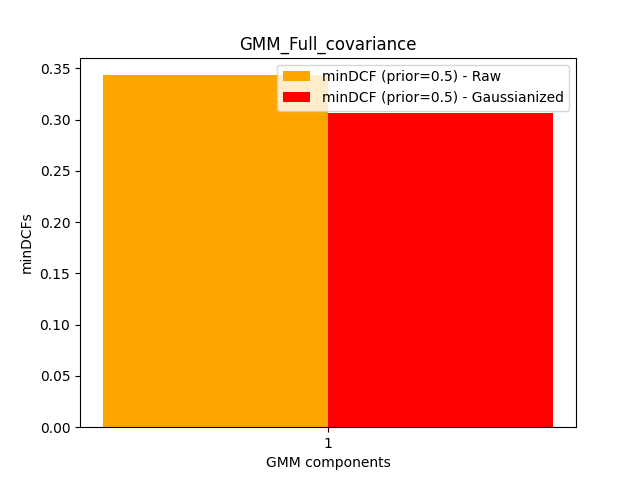
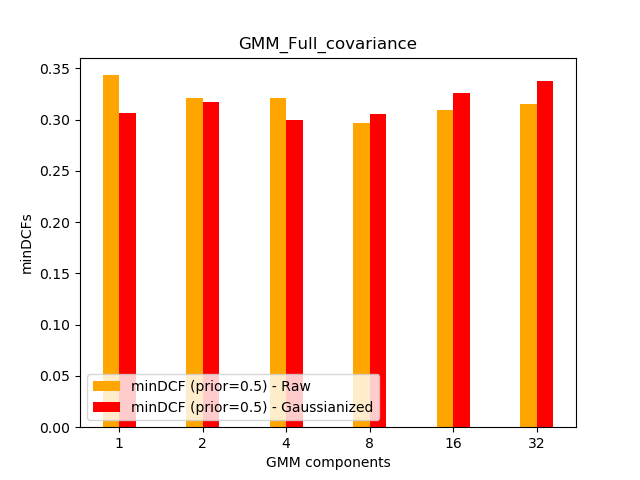
added graphs+ gaussianization eval

diff --git a/main.py b/main.py
@@ -59,42 +59,58 @@ def gaussianization(D):
     gaussianizedFeatures = scipy.stats.norm.ppf(r)
     return gaussianizedFeatures
 
-def print_table_MVG_classifiers_minDCF(DTR, prior, cost_fn, cost_fp, k):
+def gaussianizationEval(D, X):
+    N = D.shape[1]
+    r = numpy.zeros(X.shape)
+    for k in range(X.shape[0]):
+        featureVectorD = D[k,:]
+        for i in range (X.shape[1]):
+            ranks = scipy.stats.rankdata(numpy.append(featureVectorD, X[k][i]), method='min') -1
+            r[k,i] = ranks[-1]
 
-    def MVG_Classifiers_minDCF(data):
+    r = (r + 1)/(N+2)
+    gaussianizedFeatures = scipy.stats.norm.ppf(r)
+    return gaussianizedFeatures
+
+
+def print_table_MVG_classifiers_minDCF(DTR, prior, cost_fn, cost_fp, k, eval=False, eval_data=None):
+
+    def MVG_Classifiers_minDCF(data, eval_data):
         #Full_Cov 
-        min_DCF_MVG,_ = model_validation.singleFold_DCF(data, LTR, MVGclassifiers.MVG_logLikelihoodRatios, prior , cost_fn, cost_fp)
+        min_DCF_MVG,_,_ = model_validation.singleFold_DCF(data, LTR, MVGclassifiers.MVG_logLikelihoodRatios, prior , cost_fn, cost_fp,  eval_data=eval_data)
         print("[Single Fold] -  MVG: ",min_DCF_MVG)  
-        min_DCF_MVG,_,_ = model_validation.k_cross_DCF(data, LTR, k, MVGclassifiers.MVG_logLikelihoodRatios, prior , cost_fn, cost_fp)
+        min_DCF_MVG,_,_ = model_validation.k_cross_DCF(data, LTR, k, MVGclassifiers.MVG_logLikelihoodRatios, prior , cost_fn, cost_fp,  eval_data=eval_data)
         print("[5-Folds]  -  MVG: ",min_DCF_MVG)  
 
         #Diag_Cov == Naive
-        min_DCF_Diag_Cov,_ = model_validation.singleFold_DCF(data, LTR, MVGclassifiers.NAIVE_logLikelihoodRatios, prior , cost_fn, cost_fp)
+        min_DCF_Diag_Cov,_,_ = model_validation.singleFold_DCF(data, LTR, MVGclassifiers.NAIVE_logLikelihoodRatios, prior , cost_fn, cost_fp, eval_data=eval_data)
         print("[Single Fold]  - MVG with Diag cov: ",min_DCF_Diag_Cov)
-        min_DCF_Diag_Cov,_,_ = model_validation.k_cross_DCF(data, LTR,k, MVGclassifiers.NAIVE_logLikelihoodRatios, prior , cost_fn, cost_fp)
+        min_DCF_Diag_Cov,_,_ = model_validation.k_cross_DCF(data, LTR,k, MVGclassifiers.NAIVE_logLikelihoodRatios, prior , cost_fn, cost_fp,  eval_data=eval_data)
         print("[5- Fold] - MVG with Diag cov: ",min_DCF_Diag_Cov)
 
         #Tied
-        min_DCF_Tied,_ = model_validation.singleFold_DCF(data, LTR, MVGclassifiers.TIED_logLikelihoodRatios, prior , cost_fn, cost_fp)
+        min_DCF_Tied,_,_ = model_validation.singleFold_DCF(data, LTR, MVGclassifiers.TIED_logLikelihoodRatios, prior , cost_fn, cost_fp, eval_data=eval_data)
         print("[Single Fold] - Tied MVG: ",min_DCF_Tied)
-        min_DCF_Tied,_,_ = model_validation.k_cross_DCF(data, LTR,k, MVGclassifiers.TIED_logLikelihoodRatios, prior , cost_fn, cost_fp)
+        min_DCF_Tied,_,_ = model_validation.k_cross_DCF(data, LTR,k, MVGclassifiers.TIED_logLikelihoodRatios, prior , cost_fn, cost_fp,  eval_data=eval_data)
         print("[5- Fold] - Tied MVG: ",min_DCF_Tied)
 
         #Tied Diag_Cov
-        min_DCF_Tied_Diag_Cov,_ = model_validation.singleFold_DCF(data, LTR, MVGclassifiers.TIED_DIAG_COV_logLikelihoodRatios, prior , cost_fn, cost_fp)
+        min_DCF_Tied_Diag_Cov,_,_ = model_validation.singleFold_DCF(data, LTR, MVGclassifiers.TIED_DIAG_COV_logLikelihoodRatios, prior , cost_fn, cost_fp,  eval_data=eval_data)
         print("[Single Fold] - Tied MVG with Diag Cov: ",min_DCF_Tied_Diag_Cov)
-        min_DCF_Tied_Diag_Cov,_,_ = model_validation.k_cross_DCF(data, LTR, k,  MVGclassifiers.TIED_DIAG_COV_logLikelihoodRatios, prior , cost_fn, cost_fp)
+        min_DCF_Tied_Diag_Cov,_,_ = model_validation.k_cross_DCF(data, LTR, k,  MVGclassifiers.TIED_DIAG_COV_logLikelihoodRatios, prior , cost_fn, cost_fp, eval_data=eval_data)
         print("[5 Fold] - Tied MVG with Diag Cov: ",min_DCF_Tied_Diag_Cov)
 
         print()
 
     #!!! normalization is important before PCA
     normalized_data = Z_normalization(DTR)
+    if (eval_data!=None):
+        eval_data[0] =Z_normalization(eval_data[0])
 
 
     #------------------------RAW FEATURES (normalized) -----------------
     print("*** minDCF - RAW (normalized) FEATURES - NO PCA ***")
-    MVG_Classifiers_minDCF(normalized_data)
+    MVG_Classifiers_minDCF(normalized_data, eval_data)
     
 
     #------------------------RAW FEATURES (normalized) WITH PCA = 9 --------------------
@@ -594,7 +610,7 @@ def print_graphs_Polinomial_SVM_Cs_k_c(DTR, LTR, k ):
  
     
 
-def print_table_Quadratic_SVM_minDCF(DTR, LTR, prior, cost_fn, cost_fp, k): #TODO
+def print_table_Quadratic_SVM_minDCF(DTR, LTR, prior, cost_fn, cost_fp, k): 
 
     def quadratic_SVM_minDCF(data, C, c, K):
         
@@ -1031,12 +1047,12 @@ if __name__ == '__main__':
 
     ##EVAULATION OF THE CLASSIFIERS : 
     ### -- MVG CLASSIFIERS
-    '''
+    
     print("********************* MVG TABLE ************************************")
     print("------> pi = 0.5")
-    print_table_MVG_classifiers_minDCF(DTR, prior=0.5, cost_fn=1, cost_fp=1, k=k)
+    print_table_MVG_classifiers_minDCF(DTR, prior=0.5, cost_fn=1, cost_fp=1, k=k, eval_data=[DTE,LTE])
     print()
-
+    '''
     print("------> pi = 0.9")
     print_table_MVG_classifiers_minDCF(DTR, prior=0.9, cost_fn=1, cost_fp=1, k=k)
     print()
@@ -1056,12 +1072,13 @@ if __name__ == '__main__':
     print("********************************************************************")
     
     '''
-    '''
+    
     
     print("********************* LR TABLE ************************************")
     print("------> applicazione prior = 0.5")
     print_table_LR_minDCF(DTR,LTR, prior=0.5, cost_fn=1, cost_fp=1, k=k)
     print()
+    '''
     print("------> applicazione con prior = 0.1")
     print_table_LR_minDCF(DTR,LTR, prior=0.1, cost_fn=1, cost_fp=1, k=k)
     print()
@@ -1171,9 +1188,9 @@ if __name__ == '__main__':
     print(GMM_choosing_hyperparams(DTR, LTR, k, covariance_type, 0.5, 1, 1))
     '''
     
-    
+    '''
     print_graphs_GMM_minDCF(DTR, LTR, k)
-    
+    '''
 
     ## COMPARISON BETWEEN ACT DCF AND MIN DCF OF THE CHOSEN MODELS
     '''

diff --git a/model_validation.py b/model_validation.py
@@ -140,15 +140,25 @@ def k_cross_loglikelihoods(D,L, k, llr_calculator, otherParams):
     labels = numpy.concatenate(labels)
     return (llr, labels)
 
-def k_cross_DCF(D, L, k, llr_calculator, prior, cost_fn, cost_fp, otherParams=None):
-    llr, labels = k_cross_loglikelihoods(D,L,k, llr_calculator, otherParams)
+def k_cross_DCF(D, L, k, llr_calculator, prior, cost_fn, cost_fp, otherParams=None, eval_data=None):
+    if (eval_data!=None): 
+        DEV = eval_data[0]
+        labels= eval_data[1]
+        llr = llr_calculator(D, L, DEV, otherParams)
+    else :
+        llr, labels = k_cross_loglikelihoods(D,L,k, llr_calculator, otherParams)
+
     actDCF = compute_actual_DCF(llr, labels, prior , cost_fn, cost_fp)
     min_DCF,_,_,optimal_treshold =compute_minimum_detection_cost(llr, labels, prior , cost_fn, cost_fp)
     return (min_DCF, actDCF, optimal_treshold)
 
 
-def singleFold_DCF(D, L, llr_calculator, prior, cost_fn, cost_fp, otherParams=None):
+def singleFold_DCF(D, L, llr_calculator, prior, cost_fn, cost_fp, otherParams=None,  eval_data=None): #eval_data=[DTE,LTE]
     (DTR, LTR), (DTE,LTE)= split_db_2tol(D,L)
+    if (eval_data!=None):
+        DTE = eval_data[0]
+        LTE= eval_data[1]
+
     llr = llr_calculator (DTR,LTR,DTE, otherParams)
     actDCF = compute_actual_DCF(llr, LTE, prior , cost_fn, cost_fp)
     min_DCF,_,_,optimal_treshold =compute_minimum_detection_cost(llr, LTE, prior , cost_fn, cost_fp)
